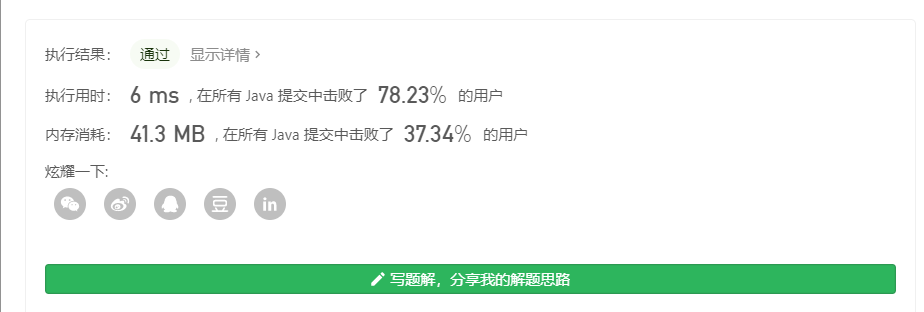
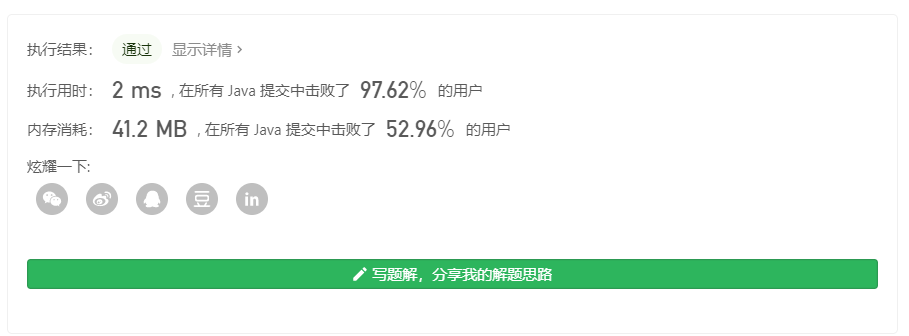
9.8的补充

Changed region(s): [[0.0308, 0.75, 0.9857, 0.9519], [0.0308, 0.2308, 0.5853, 0.7212], [0.0308, 0.1154, 0.2772, 0.2019]]

diff --git a/src/力扣/普通题/中等/SerialNumber77/Solution.java b/src/力扣/普通题/中等/SerialNumber77/Solution.java
@@ -7,33 +7,32 @@ import java.util.*;
  */
 class Solution {
 
-    List<Integer> temp = new ArrayList<Integer>();
-    List<List<Integer>> ans = new ArrayList<List<Integer>>();
+    List<Integer> temp = new ArrayList<>();
+    List<List<Integer>> ans = new ArrayList<>();
 
     public List<List<Integer>> combine(int n, int k) {
-        List<Integer> temp = new ArrayList<Integer>();
-        List<List<Integer>> ans = new ArrayList<List<Integer>>();
-        // 初始化
-        // 将 temp 中 [0, k - 1] 每个位置 i 设置为 i + 1，即 [0, k - 1] 存 [1, k]
-        // 末尾加一位 n + 1 作为哨兵
-        for (int i = 1; i <= k; ++i) {
-            temp.add(i);
-        }
-        temp.add(n + 1);
-
-        int j = 0;
-        while (j < k) {
-            ans.add(new ArrayList<Integer>(temp.subList(0, k)));
-            j = 0;
-            // 寻找第一个 temp[j] + 1 != temp[j + 1] 的位置 t
-            // 我们需要把 [0, t - 1] 区间内的每个位置重置成 [1, t]
-            while (j < k && temp.get(j) + 1 == temp.get(j + 1)) {
-                temp.set(j, j + 1);
-                ++j;
-            }
-            // j 是第一个 temp[j] + 1 != temp[j + 1] 的位置
-            temp.set(j, temp.get(j) + 1);
-        }
+        dfs(1, n, k);
         return ans;
+    }
+
+    /**
+     * @param c 代表当前使用的数
+     */
+    public void dfs(int c, int n, int k) {
+        if (temp.size() + n - c + 1 < k) {
+            return;
+        }
+        if (temp.size() == k) {
+            ans.add(new ArrayList<>(temp));
+            return;
+        }
+        // 将当前数加入集合中
+        temp.add(c);
+        // 使用当前数向后递归
+        dfs(c+1, n, k);
+        // 删除将才添加的数
+        temp.remove(temp.size()-1);
+        // 不使用当前数向后递归
+        dfs(c+1, n, k);
     }
 }

diff --git a/src/力扣/普通题/中等/SerialNumber77/README.md b/src/力扣/普通题/中等/SerialNumber77/README.md
@@ -24,7 +24,11 @@
 
 ### 解题思路
 
-&emsp;&emsp;
+&emsp;&emsp;使用 dfs 思想，首先确定一个元素，然后向后递归，再确定一个元素再递归（后面的元素一定比前面的元素大），
+直到集合元素个数 + n - 当前数值 + 1 < k 时，结束递归（n - 当前数值 + 1 表示当前剩余有效数字）
+或者集合元素等于 k 时，结束循环并将该集合的元素添加到结果集中。回溯：每次遇见一个新的数值有两种选择：
+1、使用该元素进行递归；2、不使用该元素直接进行递归。所以当我们有一个递归使用该元素，那么另一个递归就要不使用该元素。
+
 ### 代码
 
 [代码链接](Solution.java)
